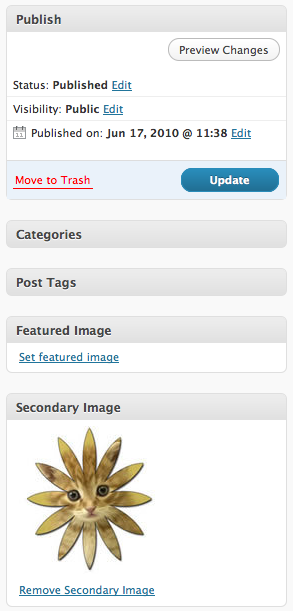
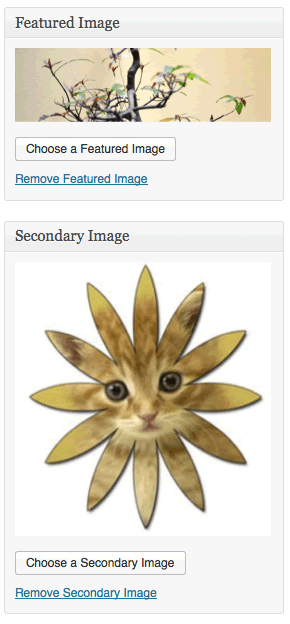
update screenshots for 3.5 UI. fix thumbnail sizing in meta box.

diff --git a/multi-post-thumbnails.php b/multi-post-thumbnails.php
@@ -129,6 +129,7 @@ if (!class_exists('MultiPostThumbnails')) {
                 #select-mpt-<?php echo esc_js($this->prefix); ?> .remove {display: none; margin-top: 10px; }
                 #select-mpt-<?php echo esc_js($this->prefix); ?>.has-featured-image .remove { display: inline-block; }
                 #select-mpt-<?php echo esc_js($this->prefix); ?> a { clear: both; float: left; }
+                #select-mpt-<?php echo esc_js($this->prefix); ?> img { height: auto; margin-bottom: 10px; max-width: 100%; }
             </style>
             <script type="text/javascript">
             jQuery( function($) {
@@ -193,8 +194,7 @@ if (!class_exists('MultiPostThumbnails')) {
 
                                     // @todo: might need a size hierarchy equivalent.
                                     if ( sizes )
-                                        size = sizes['<?php echo esc_js("{$this->post_type}-{$this->id}-thumbnail"); ?>'] || sizes.medium;
-                                        //size = sizes['post-thumbnail'] || sizes.medium;
+                                        size = sizes['<?php echo esc_js("{$this->post_type}-{$this->id}-thumbnail"); ?>'] || sizes['post-thumbnail'] || sizes.medium;
 
                                     // @todo: Need a better way of accessing full size
                                     // data besides just calling toJSON().
